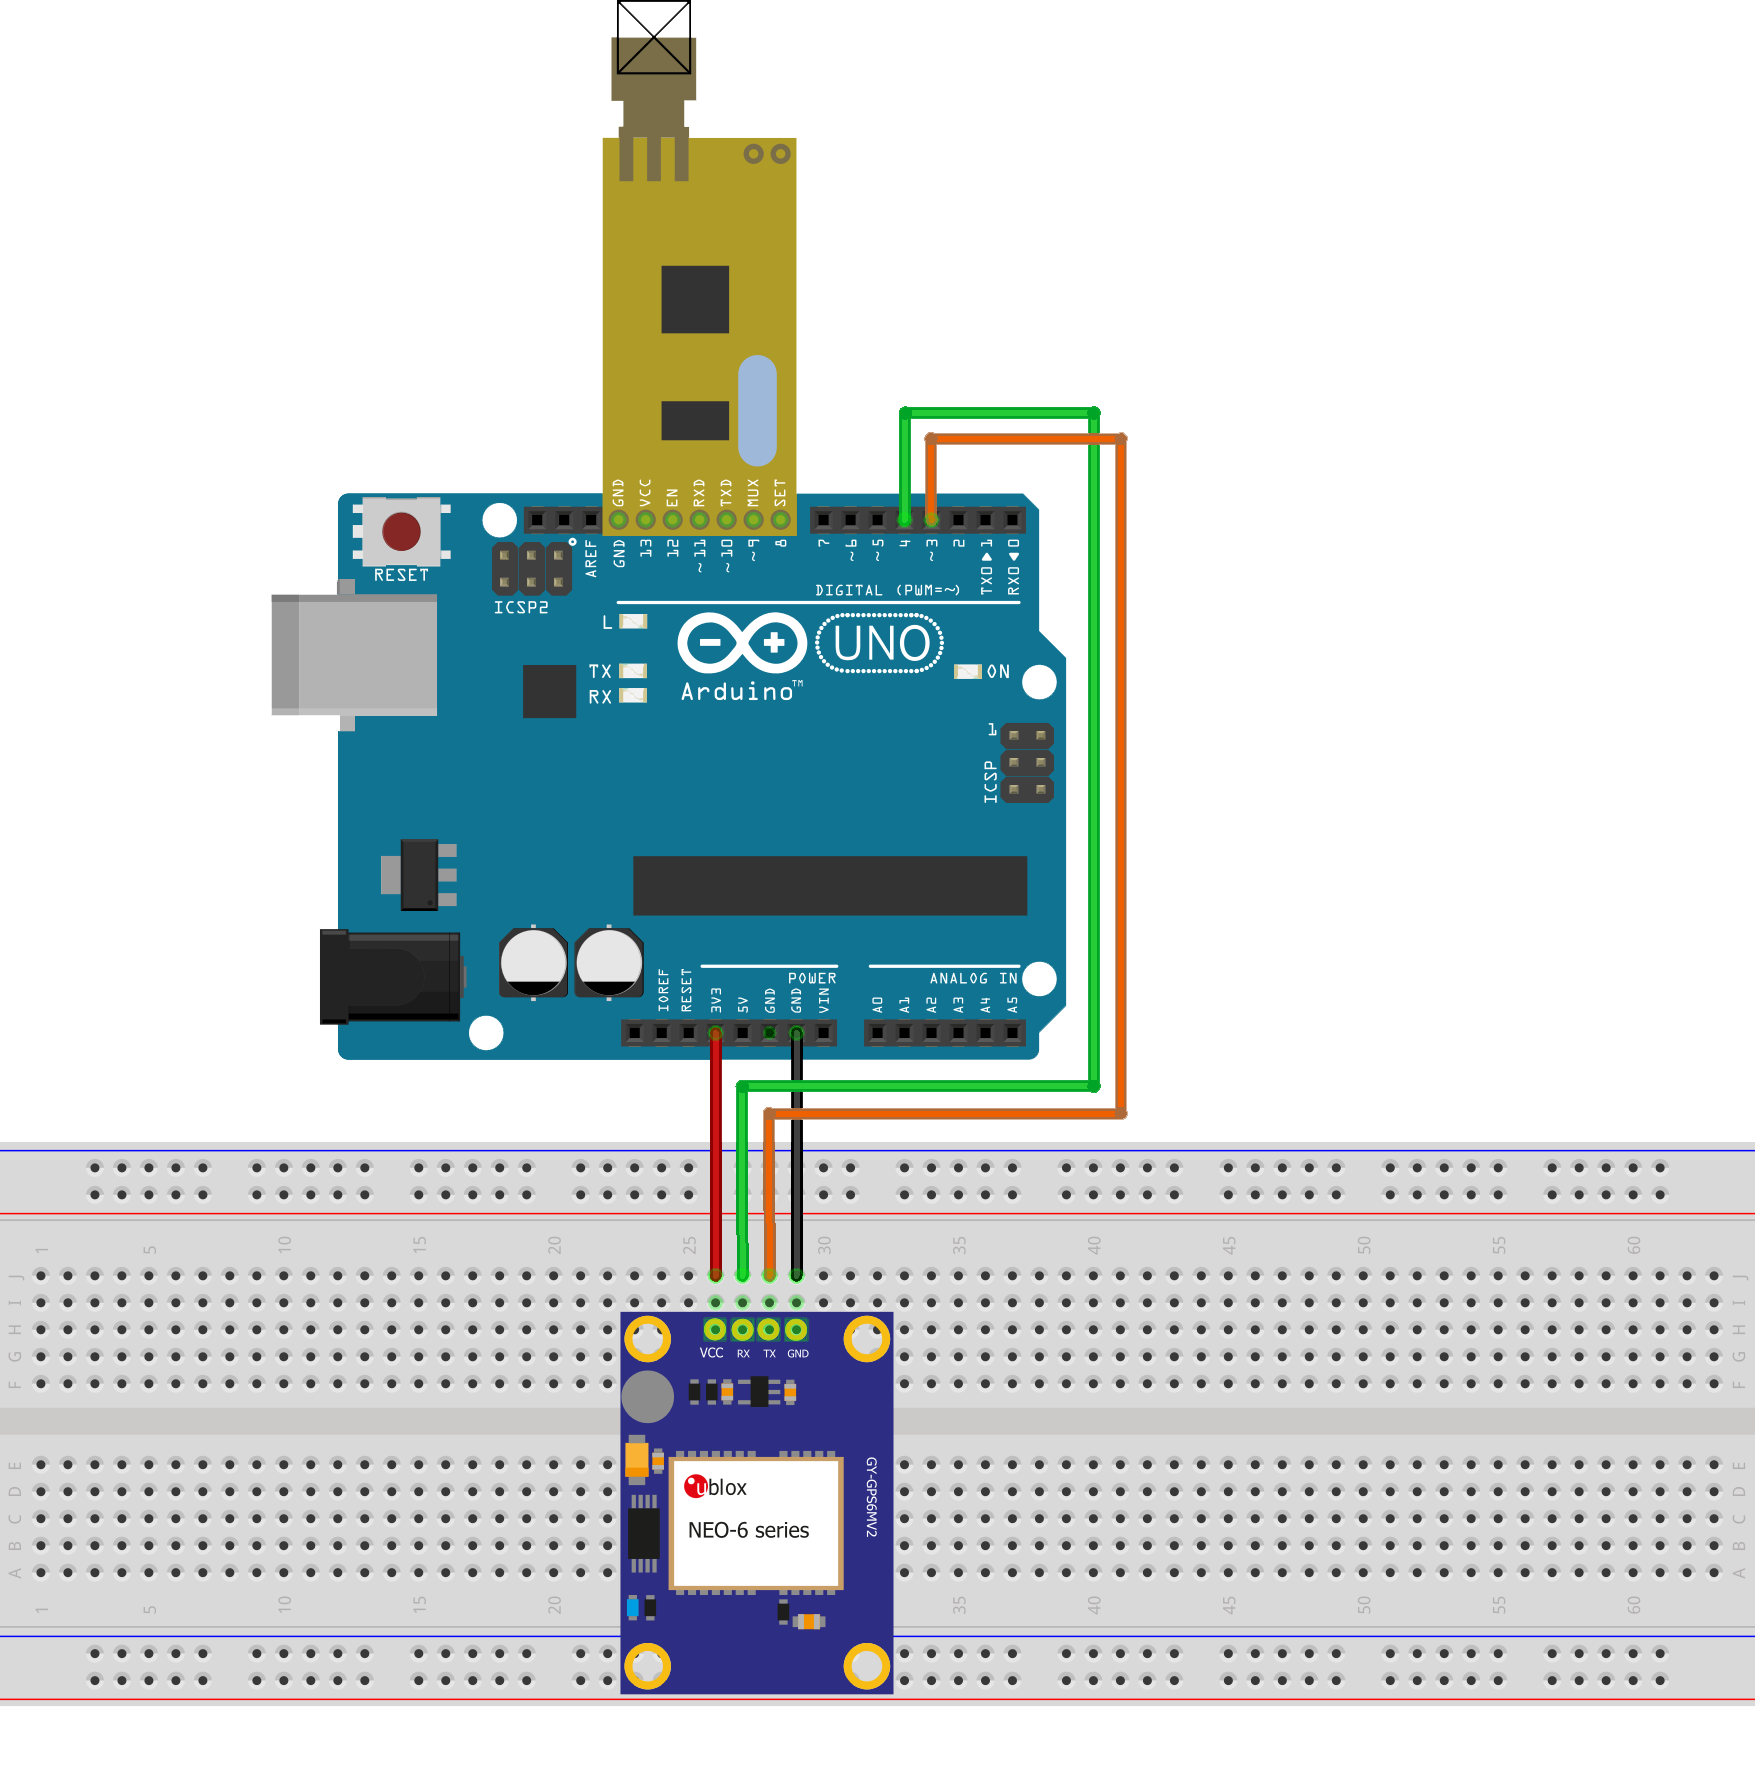
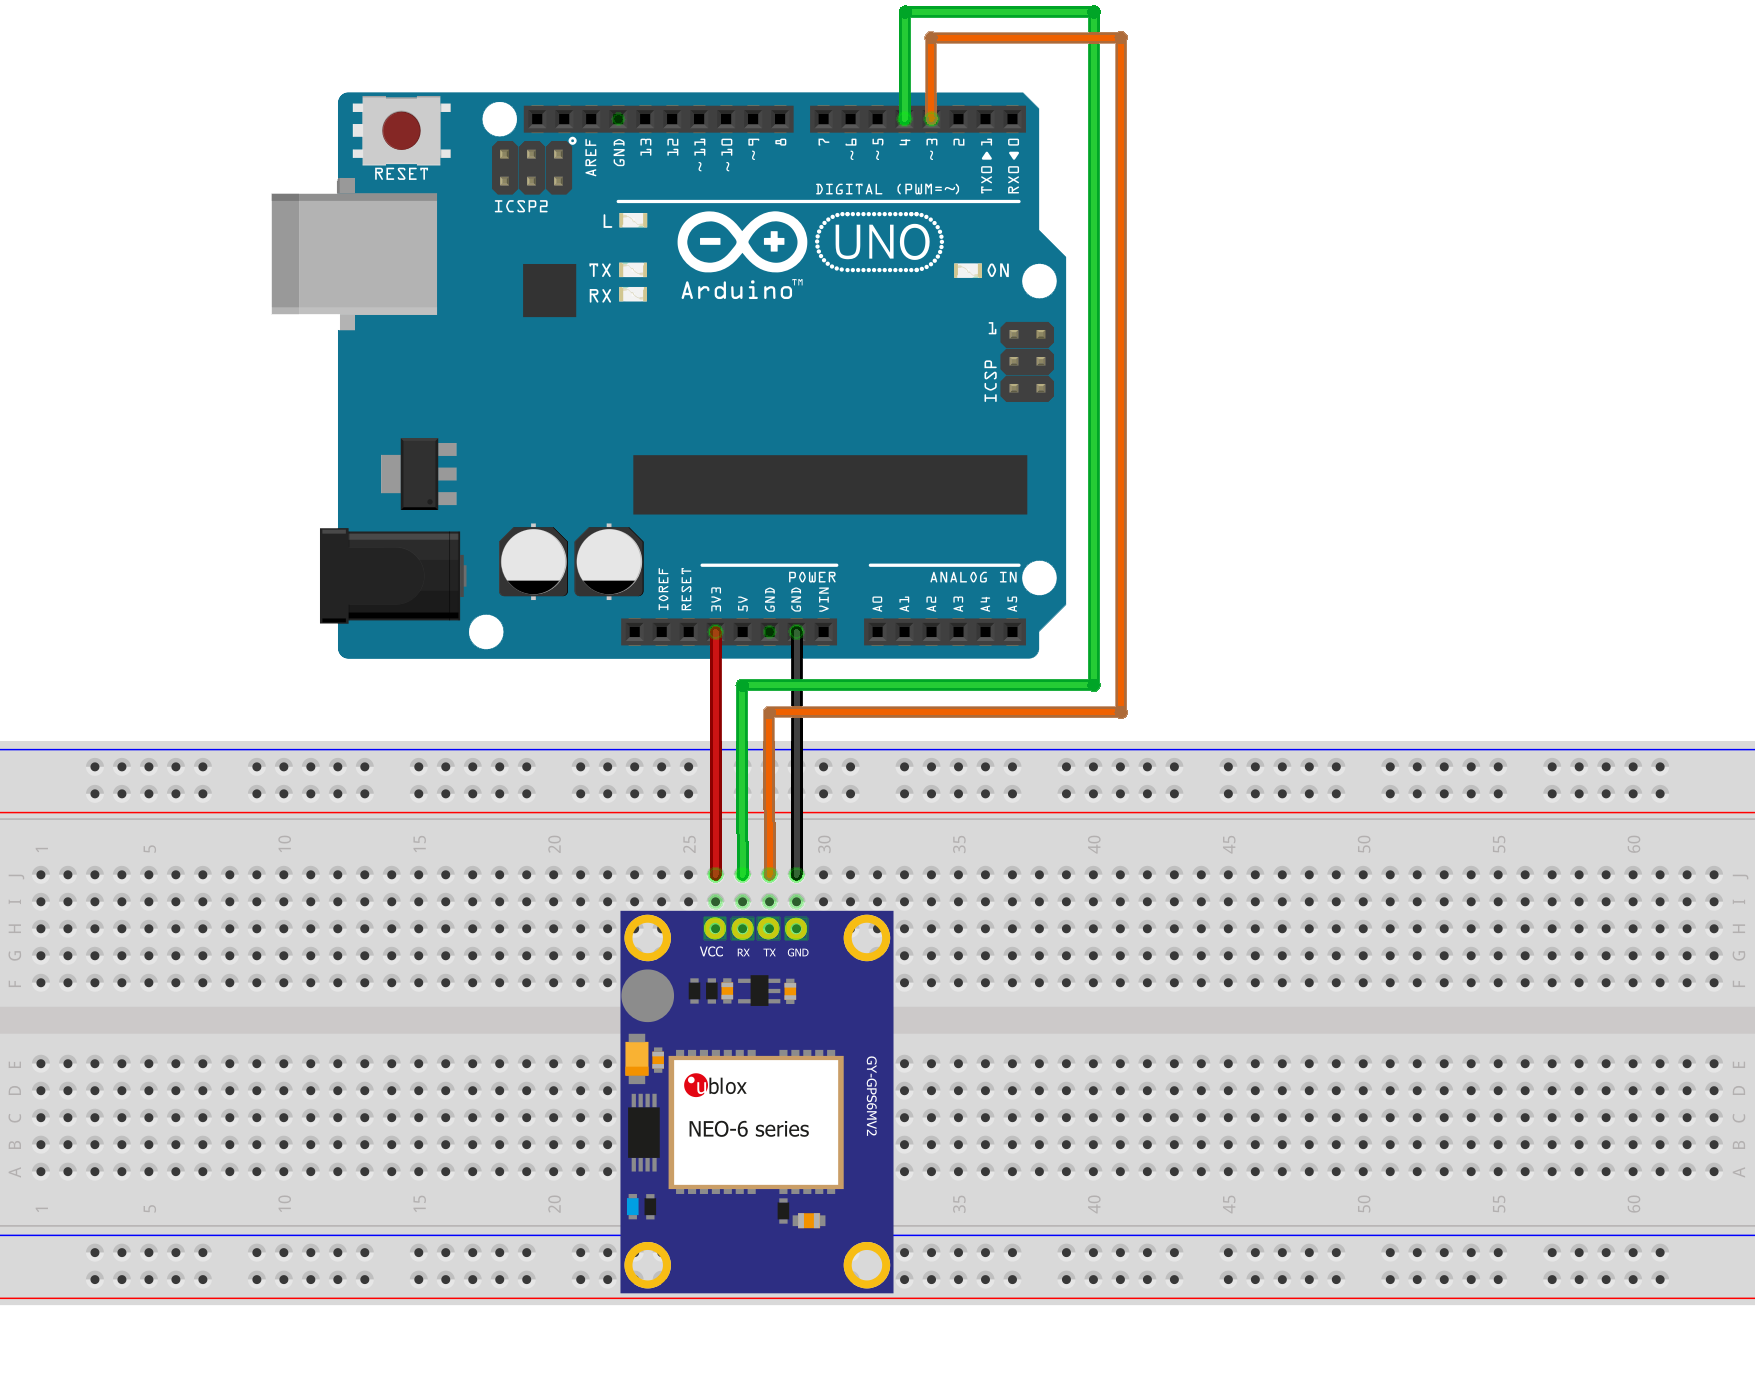
Updated README - added images

diff --git a/README.md b/README.md
@@ -31,7 +31,8 @@ It is designed to be used with an **Arduino** microcontroller, but can be used w
 ## Hardware
 - **Arduino**
 - **GPS module** (I used a **[NEO-6M](https://amzn.eu/d/0F55El5)**)
-- **Radio Module** (optional) (I used an **[APC220](https://www.dfrobot.com/product-57.html)**)
+- **Radio module** (optional) (I used an **[APC220](https://www.dfrobot.com/product-57.html)**)
+- **USB to UART Bridge** (optional) (I used a **[CP210x](https://www.aliexpress.com/item/32505898388.html)**)
 - **Breadboard**
 - **Jumper wires**
 - **USB cable**
@@ -39,7 +40,9 @@ It is designed to be used with an **Arduino** microcontroller, but can be used w
 
 ----
 
-# APC220 Setup
+<details><summary><strong>Open this section if you are using the radio module</strong></summary>
+
+## APC220 Setup
 **Disconnect the APC220 from the Arduino before proceeding.**
 1. Upload the **[apc220Cfg.ino](arduino/apc220Cfg/apc220Cfg.ino)** sketch to your Arduino
 2. Disconnect the Arduino from your computer
@@ -58,16 +61,34 @@ It is designed to be used with an **Arduino** microcontroller, but can be used w
 10.  Reconnect the Arduino to your computer
 11.  Repeat steps 6 and 7
 
-# Arduino Setup
+## Installing the CP210x Drivers
+To receive data from the APC220 module, you can use another Arduino with the APC220 module connected to it or you can use an **UART to USB bridge**.
+* Visit the **[Silicon Labs website](https://www.silabs.com/developers/usb-to-uart-bridge-vcp-drivers?tab=downloads)**
+* If you are using **Windows**, download the driver with the name `CP210x Windows Drivers`
+
+    ![CP210x Drivers](images/cp210x_page.jpg)
+
+* Extract all the files from the ZIP file in a folder
+* Run the `CP210xVCPInstaller_x64.exe` file and follow the instructions to install the driver
+
+---
+
+</details>
+
+## Arduino Setup
 **Disconnect everything from the Arduino before proceeding**
 
 There are two versions of the Arduino sketch:
 * One with the **APC220** module (**[radio_arduino.ino](arduino/radio_arduino/radio_arduino.ino)**)
 * One without the **APC220** module (**[basic_arduino.ino](arduino/basic_arduino/basic_arduino.ino)**)
 
+
 1. Upload one of the two sketches to your Arduino
 2. Disconnect the Arduino from your computer
-3. (_**APC220 only**_) Connect the **GPS module** to the **Arduino** using the following pins:
+
+<details><summary>(<strong><em>APC220 Only</em></strong>)</summary>
+
+* Connect the **GPS module** to the **Arduino** using the following pins:
 
     | GPS Module | -> | Arduino   |
     |------------|----|-----------|
@@ -76,13 +97,25 @@ There are two versions of the Arduino sketch:
     | RX         | -> | Digital 4 |
     | TX         | -> | Digital 3 |
 
-4. Connect the **APC220** module to the **Arduino** to the GND, 13, 12, 11, 10, 9 and 8 pins
-5. Connect the Arduino to your computer
+* Connect the **APC220** module to the **Arduino** to the GND, 13, 12, 11, 10, 9 and 8 pins
+
+</details><p></p>
+
+3. Connect the Arduino to your computer
 
 ## Breadboard Circuit
+<details><summary><strong>With APC220</strong></summary>
+
+![Breadboard Circuit](images/breadboard_apc220.png)
+
+</details><p></p>
+<details><summary><strong>Without APC220</strong></summary>
+
 ![Breadboard Circuit](images/breadboard.png)
 
-# Map Setup
+</details><p></p>
+
+## Map Setup
 1. Install the required software (Node.js)
 2. Clone this repository by running `git clone https://github.com/CoccodrillooXDS/GPS` or download the repository as a ZIP file and extract it
 3. Open Terminal or Command Prompt in the repository folder
@@ -90,10 +123,10 @@ There are two versions of the Arduino sketch:
 5. Run `node server` to start the application
 6. Open a web browser and visit `http://localhost:3000`
 
-# Contributing
+## Contributing
 You can contribute to the project by creating a pull request or an issue.
 
 To contribute, you can fork the repository and after you made your changes, you can create a pull request.
 
-# License
+## License
 This project is licensed under the **MIT License**. See the **[LICENSE](LICENSE)** file for more information.
